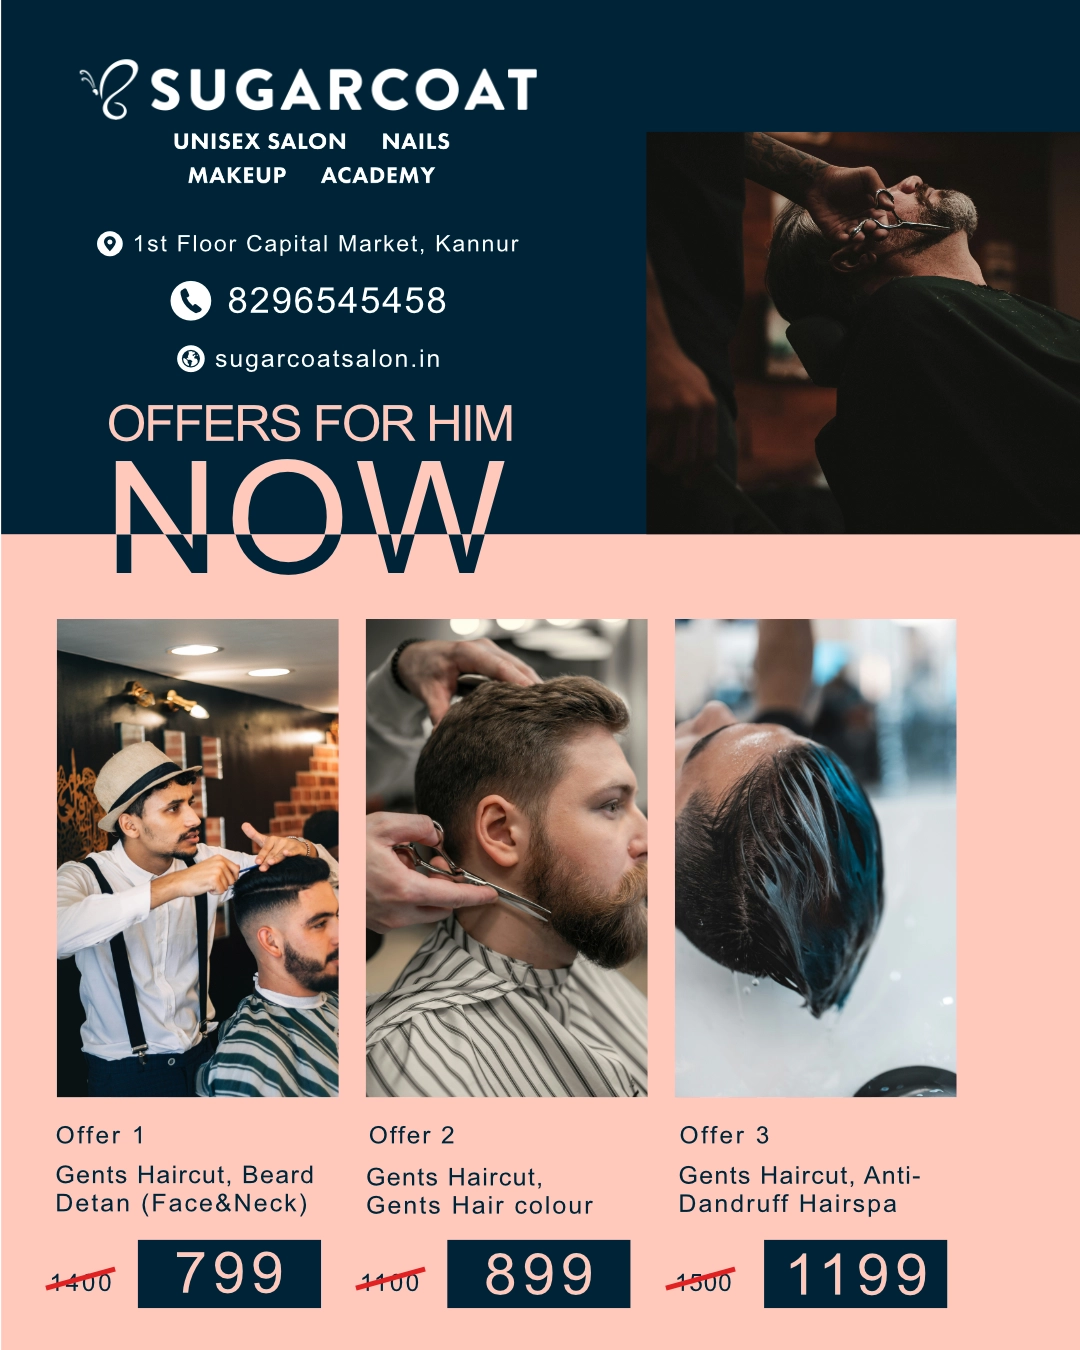
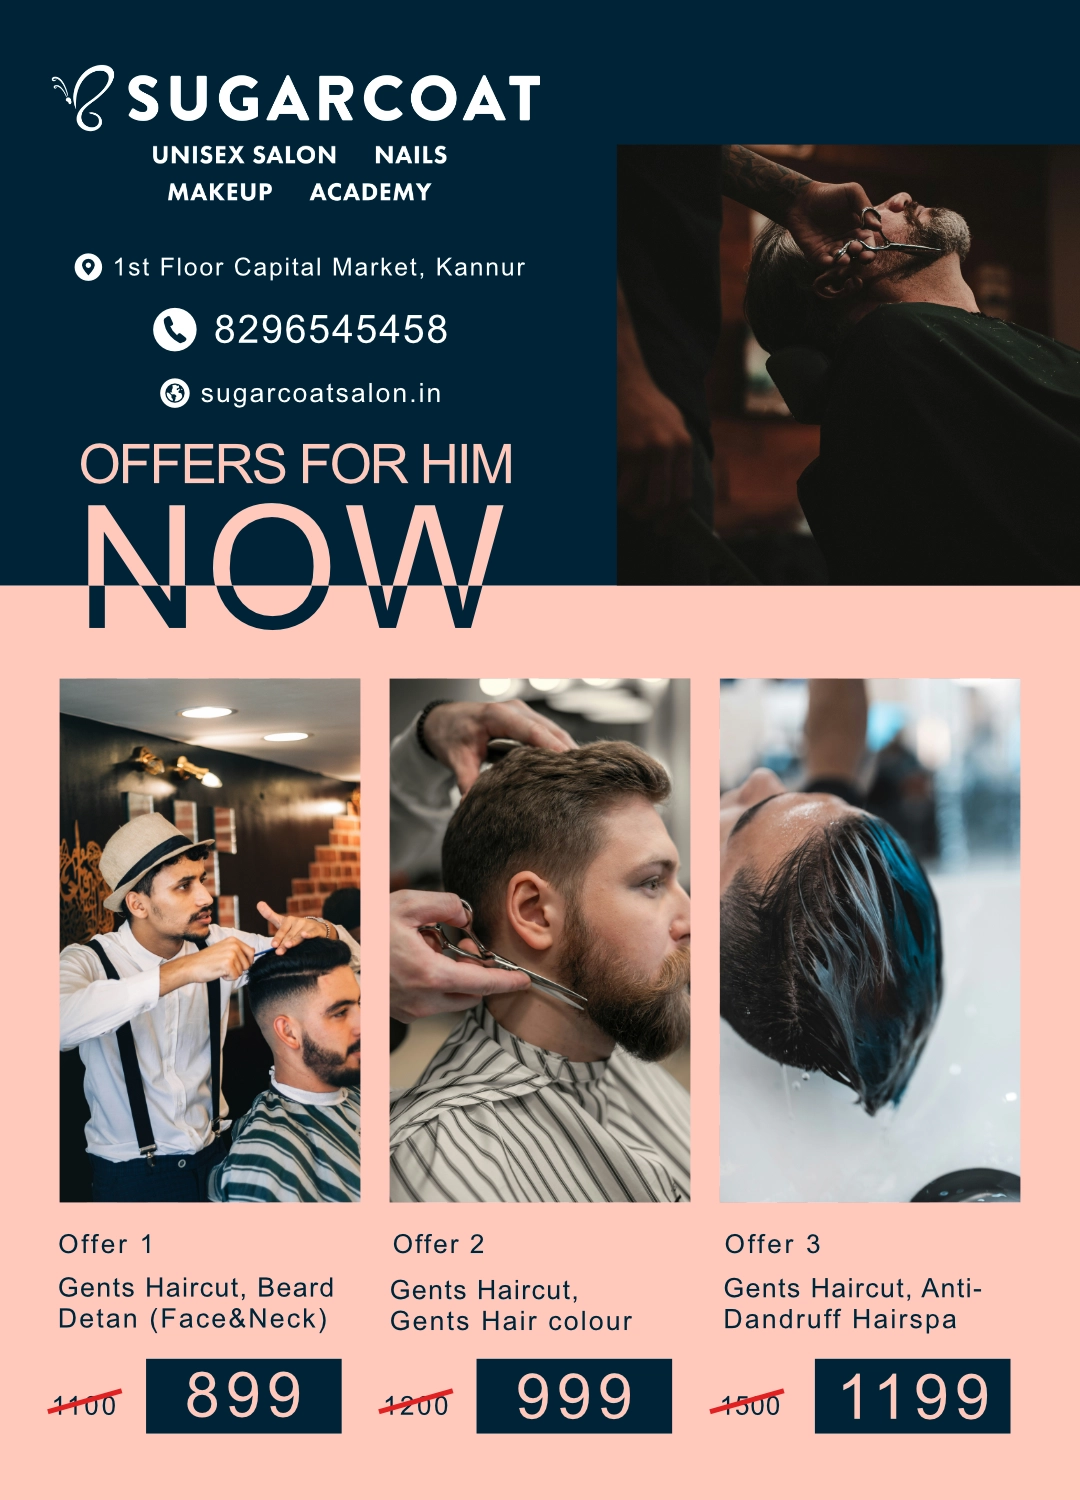
offers updated

diff --git a/offers.html b/offers.html
@@ -301,7 +301,7 @@
                                                 Trending Gents Haircuts for 2026
                                             </a>
                                         </div>
-                                        <div id="w-node-bd3eaa95-1edb-1710-069f-2cf1ef1c08c0-e9cc7957"
+                                        <!-- <div id="w-node-bd3eaa95-1edb-1710-069f-2cf1ef1c08c0-e9cc7957"
                                             data-w-id="bd3eaa95-1edb-1710-069f-2cf1ef1c08c0" style="opacity:0"
                                             class="card">
                                             <div class="card-image-block margin-bottom-30px">
@@ -328,8 +328,8 @@
                                                 class="paragraph small-paragraph menu-section-link margin-bottom-20px">
                                                 Learn More About Hair Colour
                                             </a>
-                                        </div>
-                                        <div id="w-node-bd3eaa95-1edb-1710-069f-2cf1ef1c08c9-e9cc7957"
+                                        </div> -->
+                                        <!-- <div id="w-node-bd3eaa95-1edb-1710-069f-2cf1ef1c08c9-e9cc7957"
                                             data-w-id="bd3eaa95-1edb-1710-069f-2cf1ef1c08c9" style="opacity:0"
                                             class="card">
                                             <div class="card-image-block margin-bottom-30px">
@@ -353,7 +353,7 @@
                                                 class="paragraph small-paragraph menu-section-link">
                                                 Learn More About Facials and skin care
                                             </a>
-                                        </div>
+                                        </div> -->
                                         <div id="w-node-bd3eaa95-1edb-1710-069f-2cf1ef1c08c9-e9cc7957"
                                             data-w-id="bd3eaa95-1edb-1710-069f-2cf1ef1c08c9" style="opacity:0"
                                             class="card">
